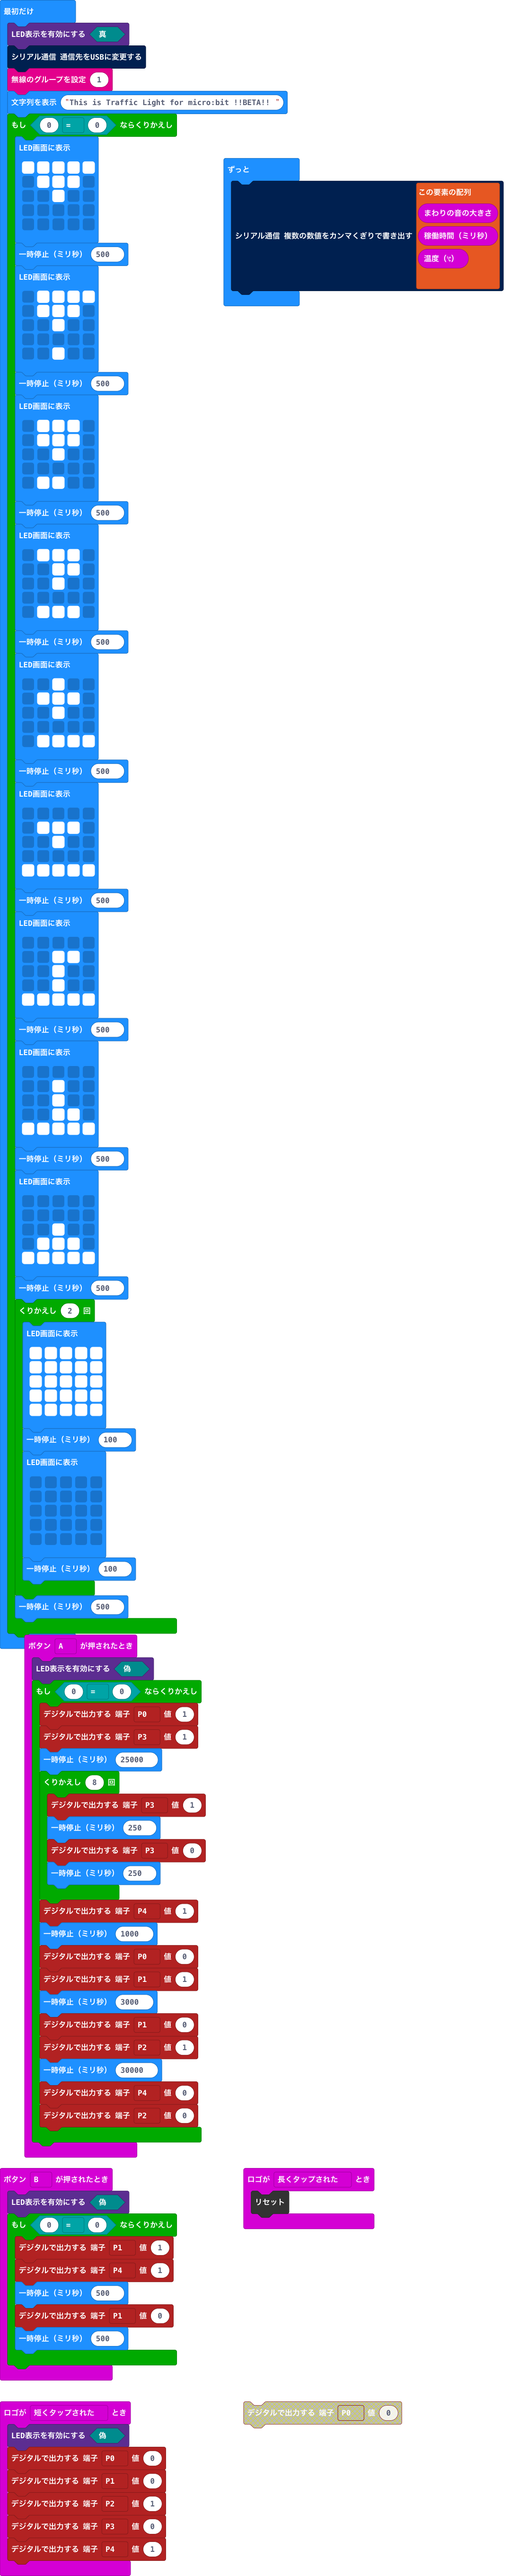
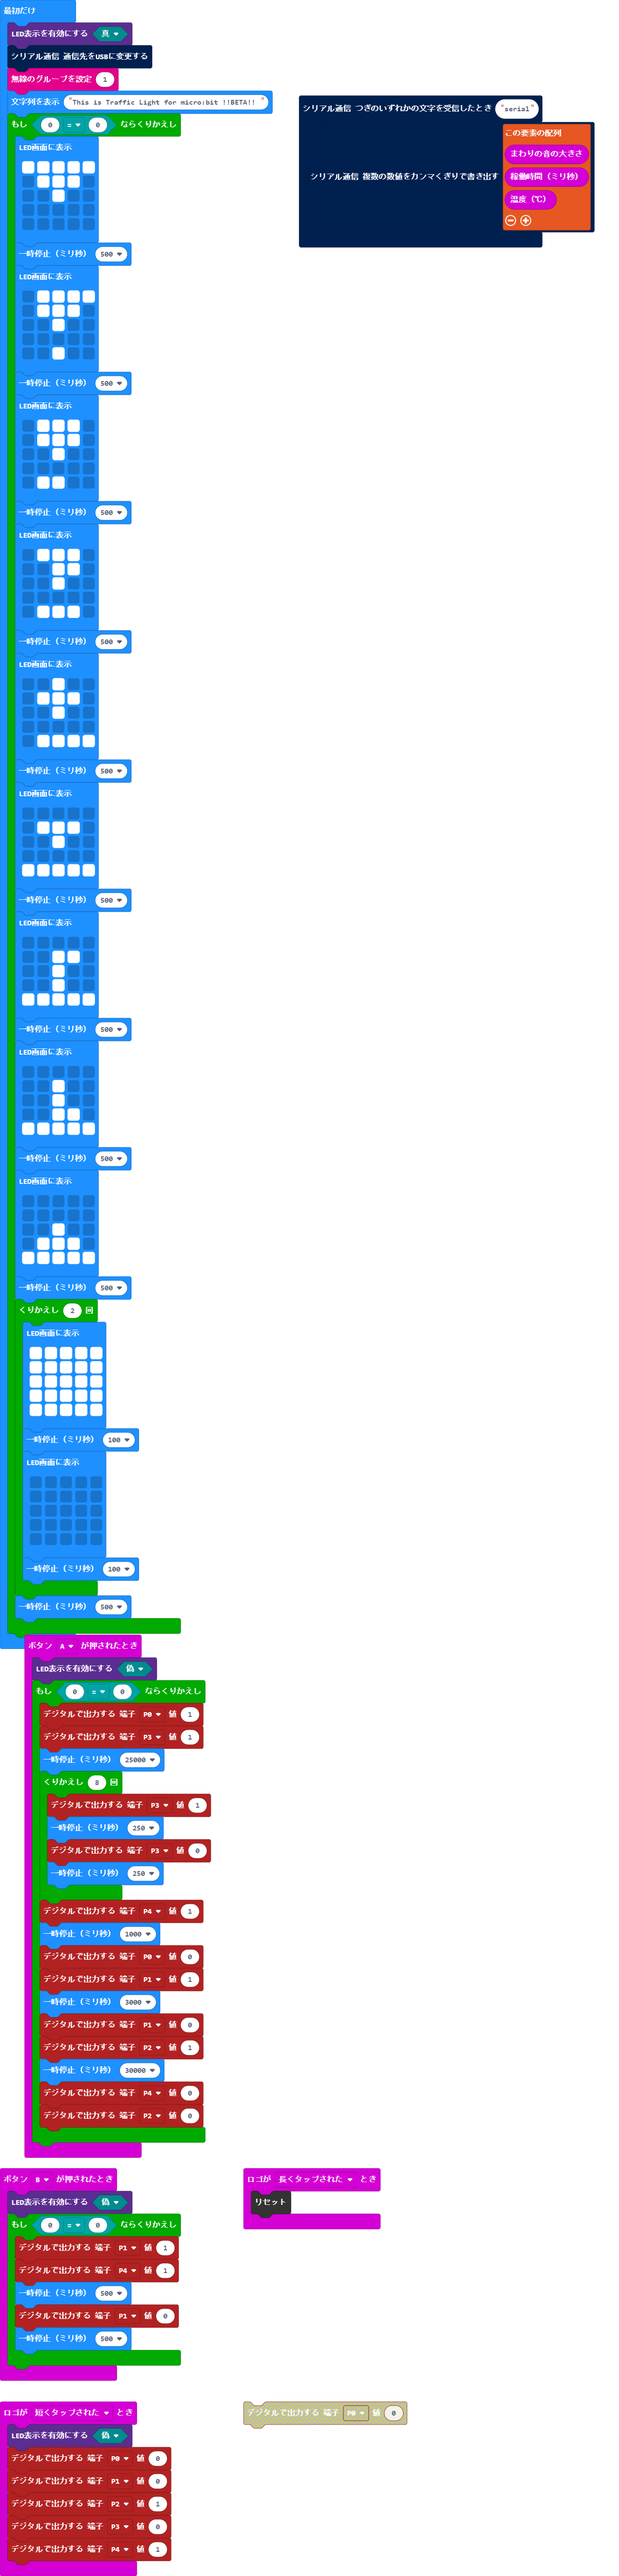
更新 main.blocks, main.ts

diff --git a/main.ts b/main.ts
@@ -25,6 +25,13 @@ input.onButtonPressed(Button.A, function () {
         pins.digitalWritePin(DigitalPin.P2, 0)
     }
 })
+serial.onDataReceived("serial", function () {
+    serial.writeNumbers([
+    input.soundLevel(),
+    input.runningTime(),
+    input.temperature()
+    ])
+})
 input.onButtonPressed(Button.B, function () {
     led.enable(false)
     while (0 == 0) {
@@ -140,10 +147,3 @@ while (0 == 0) {
     }
     basic.pause(500)
 }
-basic.forever(function () {
-    serial.writeNumbers([
-    input.soundLevel(),
-    input.runningTime(),
-    input.temperature()
-    ])
-})
